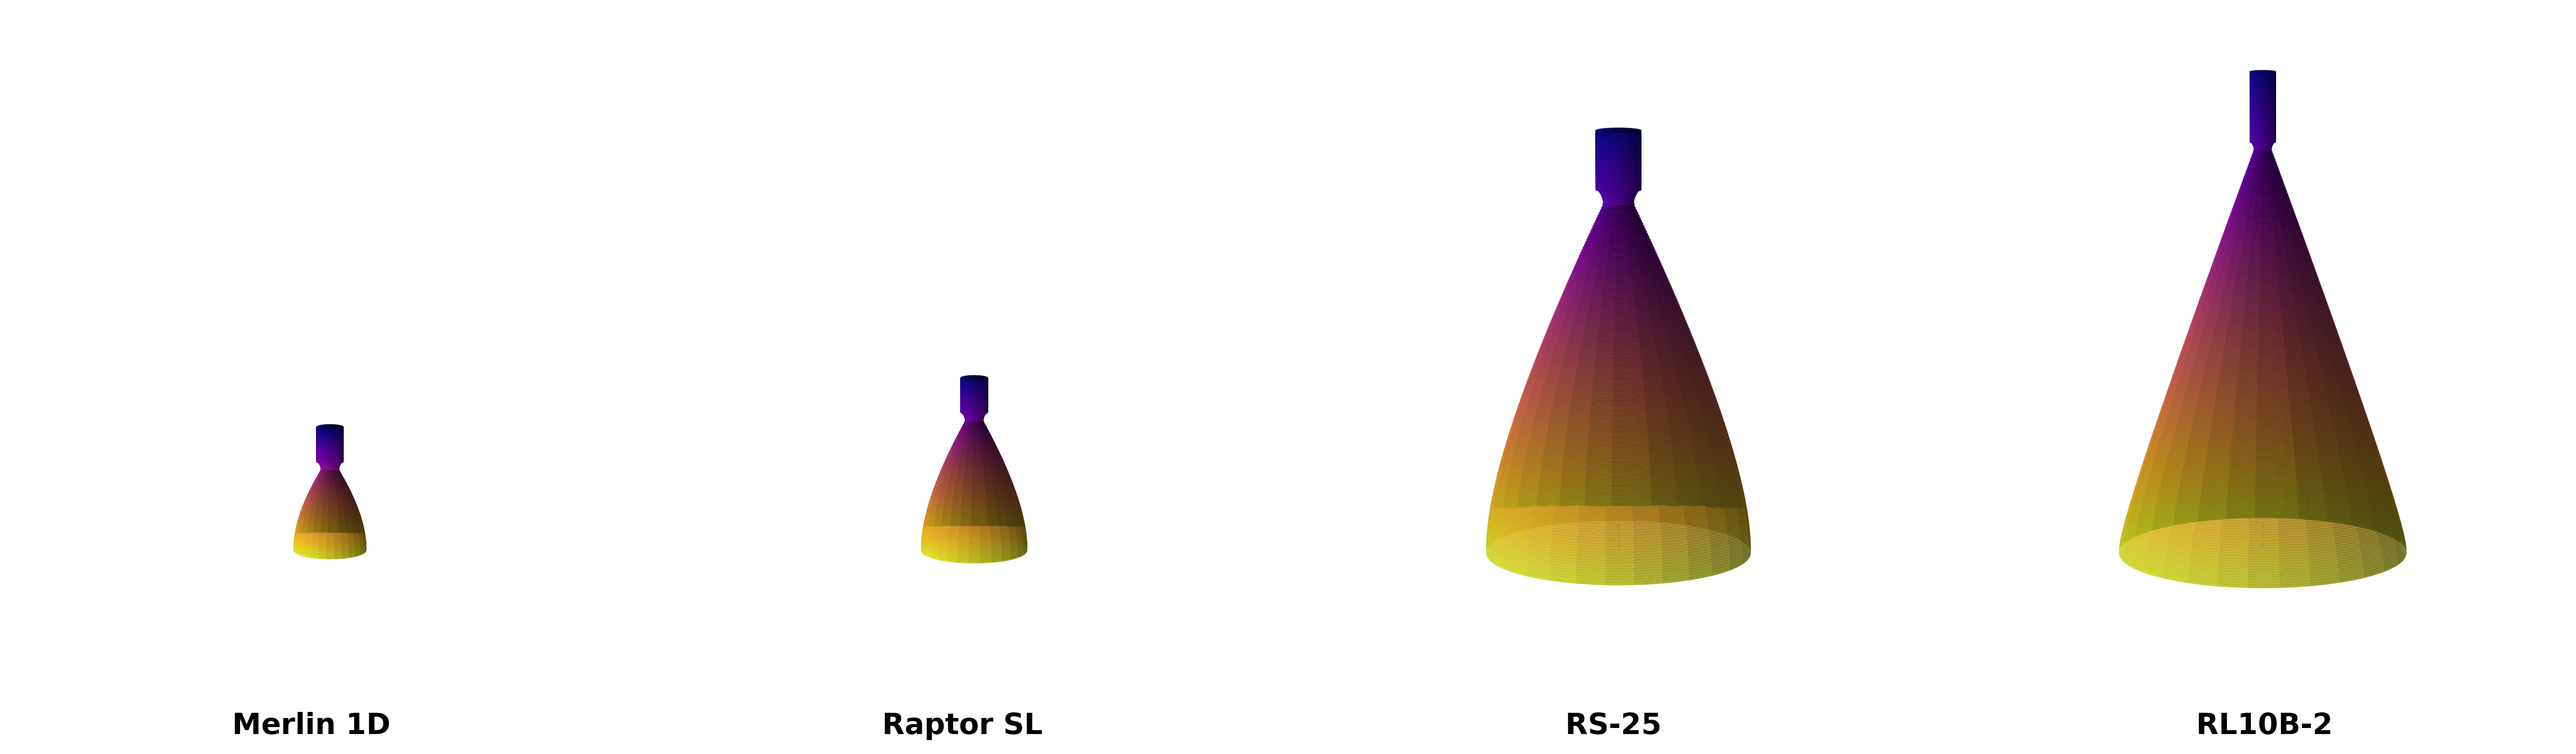
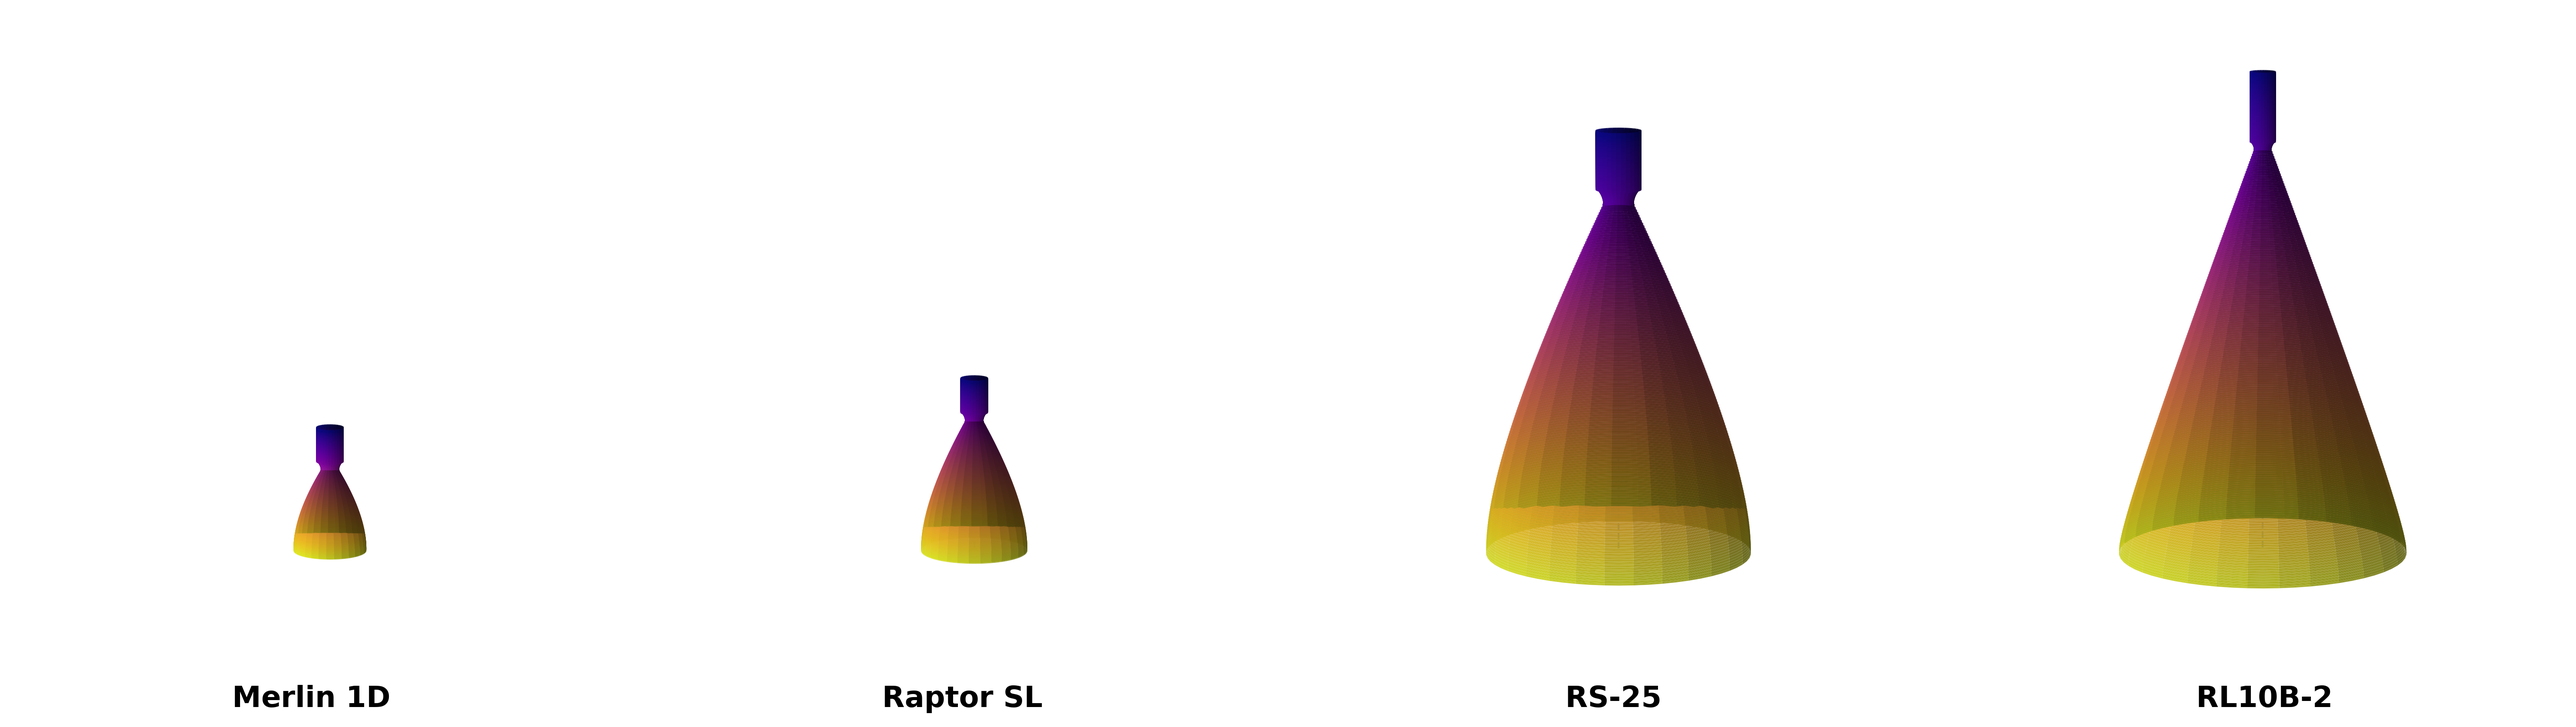
style(viz): reduce bottom margin to 0.08

diff --git a/src/viz/plot_multi_3d.py b/src/viz/plot_multi_3d.py
@@ -153,7 +153,7 @@ def plot_multi_3d(
 
     plt.tight_layout(pad=1.5)
     # Shift subplots up to make room for labels below
-    fig.subplots_adjust(bottom=0.15)
+    fig.subplots_adjust(bottom=0.08)
 
     # Save
     output_path.parent.mkdir(parents=True, exist_ok=True)
